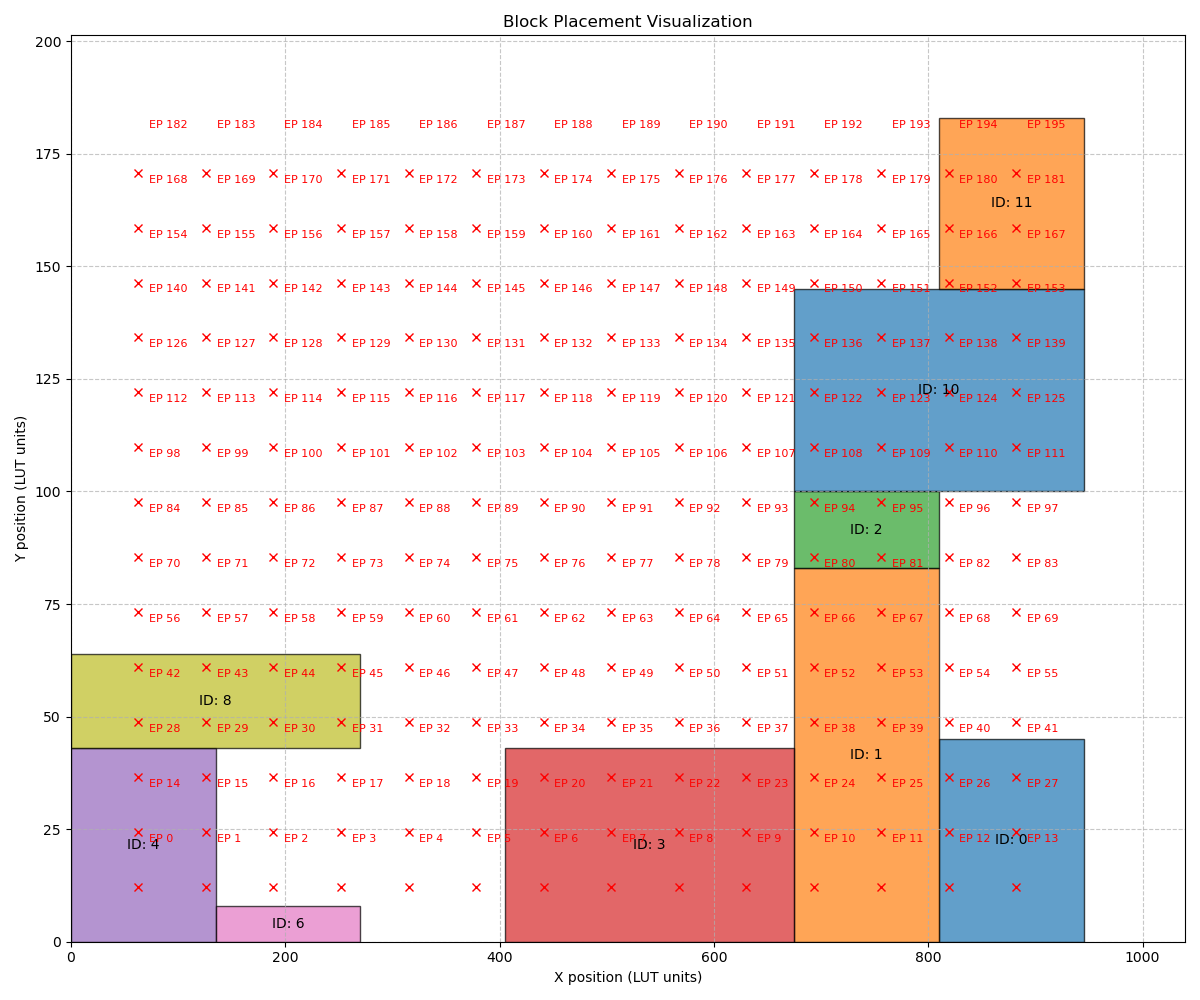
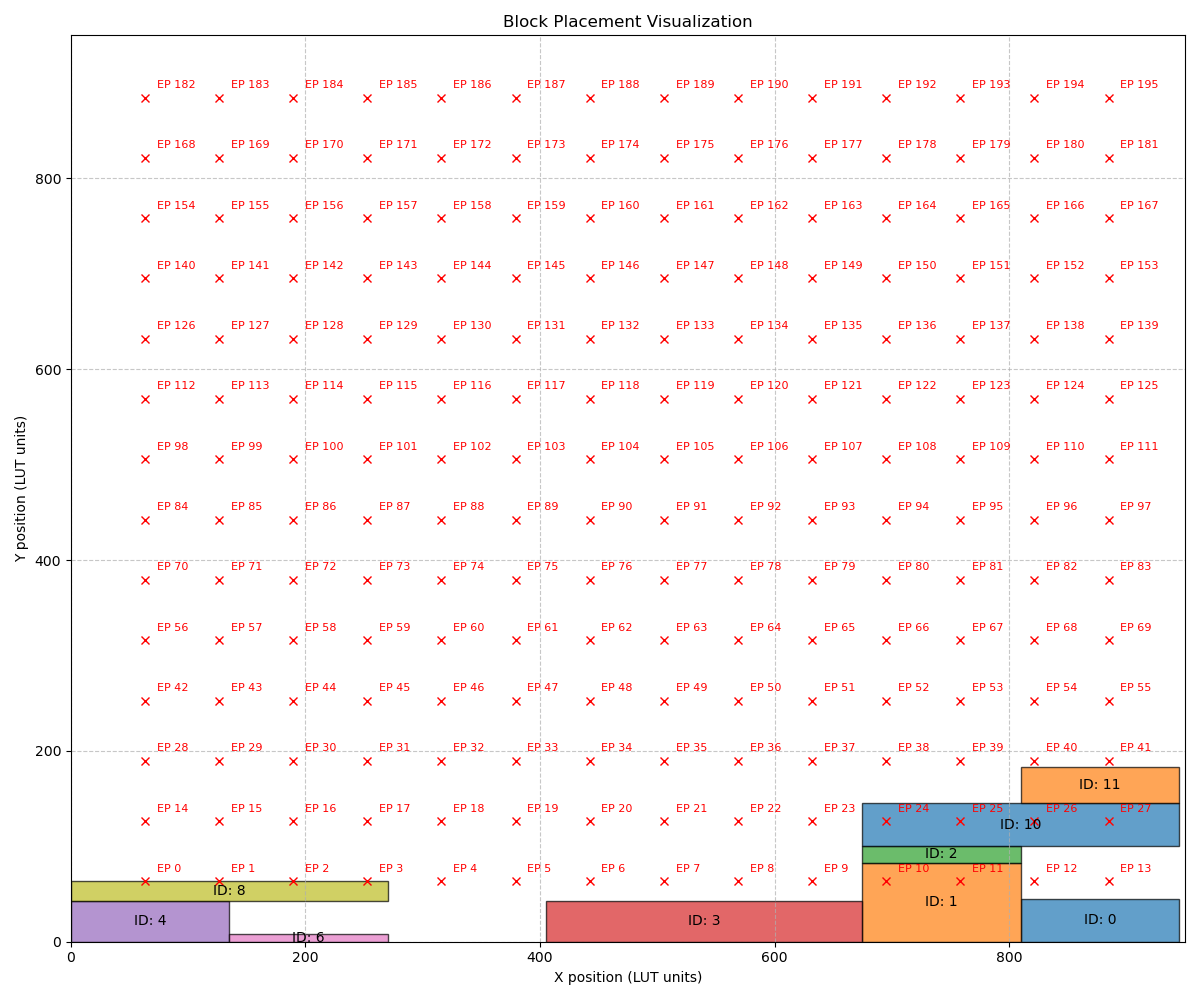
Third Update

diff --git a/run.py b/run.py
@@ -117,8 +117,8 @@ def get_mesh_endpoint_positions(x1, x2, y1, y2, mesh_dim):
     endpoints = []
     for j in range(mesh_dim):
         for i in range(mesh_dim):
-            x = (x2-x1) * (i+1) / (mesh_dim+1)
-            y = (y2-y1) * (j+1) / (mesh_dim+1)
+            x = (948) * (i+1) / (mesh_dim+1)
+            y = (948) * (j+1) / (mesh_dim+1)
             endpoints.append((x, y))
     return endpoints
 
@@ -223,8 +223,8 @@ def visualize_placement(placements, endpoints=None, save_path=None):
             ax.text(ex + 10, ey + 10, f"EP {idx}", color='red', fontsize=8)
     
     # Set axis limits with some padding
-    ax.set_xlim(0, max([coords[1][0] for coords in placements.values()]) * 1.1)
-    ax.set_ylim(0, max([coords[1][1] for coords in placements.values()]) * 1.1)
+    ax.set_xlim(0, 950)
+    ax.set_ylim(0, 950)
     
     # Add labels and title
     ax.set_xlabel('X position (LUT units)')
